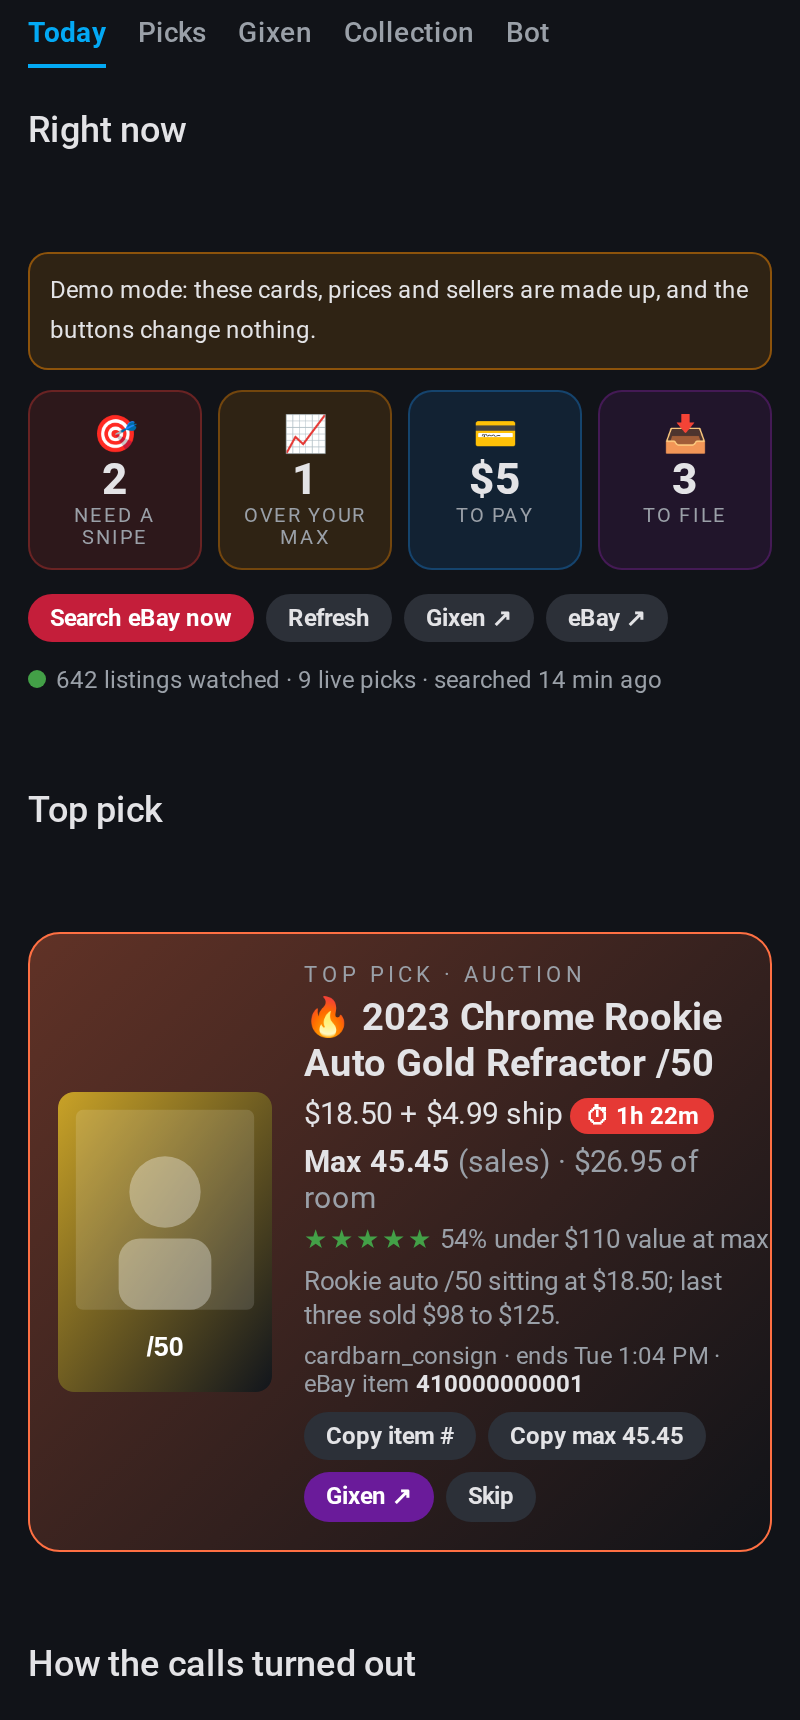
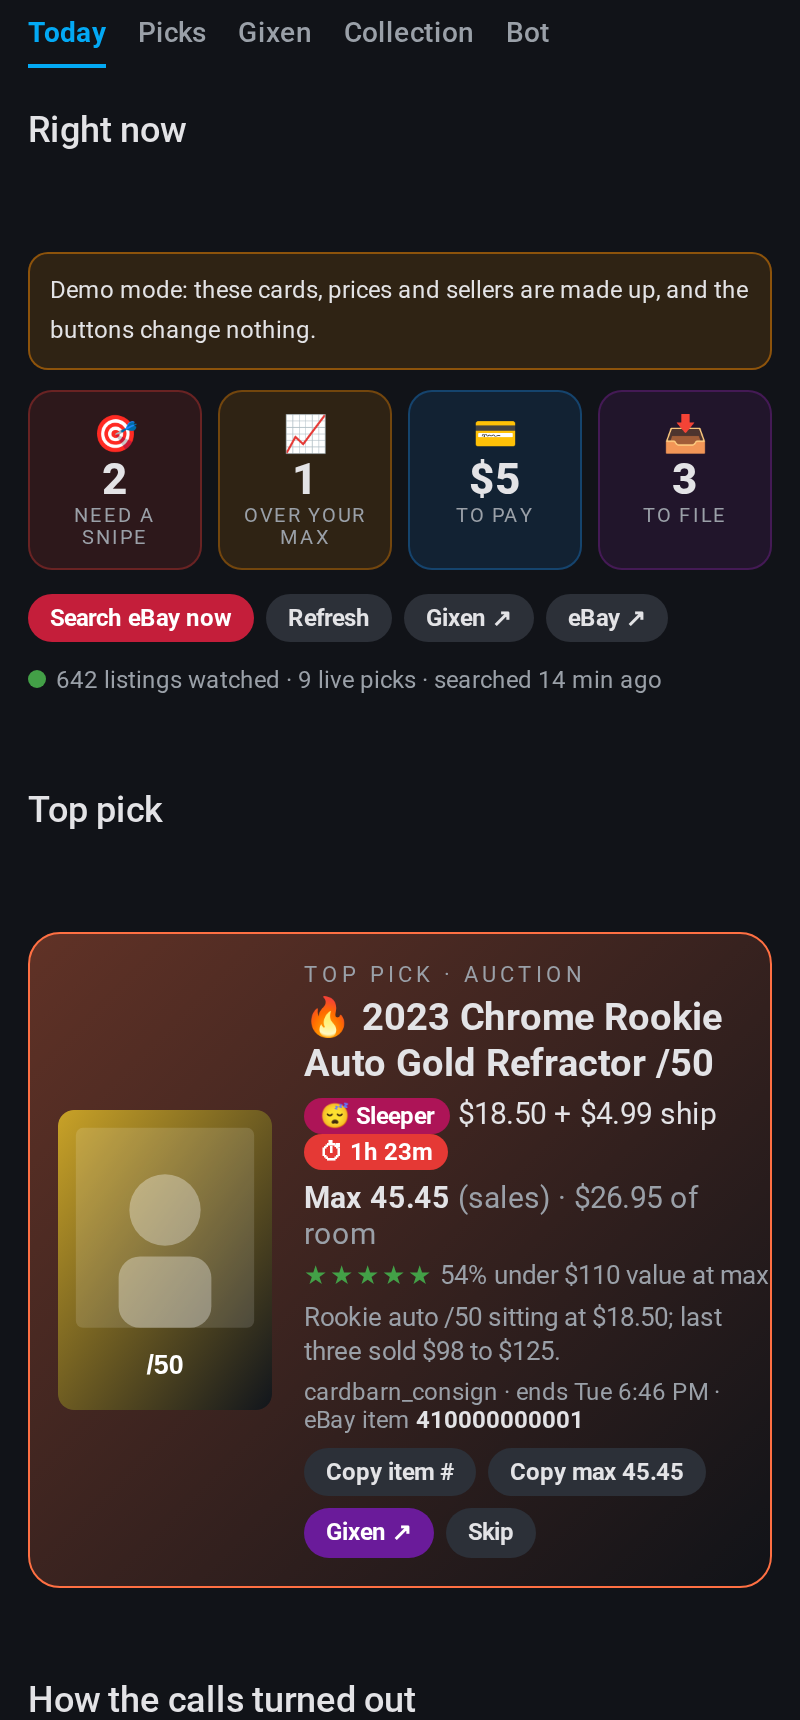
Hunt for cards that slipped through the cracks: price mistakes, hidden listings, sleeper auctions
Scoring names the reason in a new "edge" field, kept only when the pick is at
least 25% under its going rate. It leads the phone alert and goes to the dashboard.

diff --git a/snipehunt/score.py b/snipehunt/score.py
@@ -23,6 +23,10 @@ BATCH = 80
 MAX_BATCHES = 6          # anything beyond this waits for the next hourly run
 TIMEOUT = 1200
 TIERS = {"fire", "green", "yellow"}
+# Why a pick is more than a fair price: a seller's pricing mistake, a listing
+# buyers won't find, or an auction nobody is watching.
+EDGES = {"mispriced", "hidden", "sleeper"}
+EDGE_MIN_PCT = 25         # an edge has to be this far under the going rate
 UNKNOWN_SHIPPING = 5.00   # what the prompt tells Claude to assume for "ship ?"
 # The inventory columns that say which card a row is. Scoring only needs these
 # to tell what is already owned; order dates, sellers and notes are left out
@@ -71,6 +75,16 @@ sold prices you looked up; when you have none, give your honest best estimate.
 - Auctions whose current price already exceeds your max are not steals; leave \
 them out. Buy It Now only counts when the price is at or under \
 your max.
+- Hunt hardest for cards that slipped through the cracks, and say which kind in \
+"edge": "mispriced" = a Buy It Now or best-offer listing priced well under what \
+the card sells for (a seller's mistake or a quick-sale price); "hidden" = one \
+other buyers will not find or will pass over: the player's name misspelled or \
+missing, the wrong year or set, a key feature (autograph, serial number, short \
+print, grade) left out of the title, a poor photo of a good card, or a good \
+card buried in a lot; "sleeper" = an auction ending within about a day with \
+few or no bids and still far under its going rate. Use "" for a card that is \
+only a fair price. Claim an edge only when you are fairly sure of the going \
+rate and paying your max plus shipping would still be at least 25% under it.
 - Tiers: "fire" = brag-worthy (autos, patch autos, /50 or lower, case hits, \
 SSPs, want-list hits); "green" = numbered or clear value; "yellow" = cheap \
 card not yet in the collection.
@@ -80,7 +94,8 @@ Reply with ONLY one JSON object, no prose, no code fence:
 {{"picks": [{{"item_id": "…", "card": "short card name, e.g. 2023 Bowman's \
 Best Refractor PSA 10", "tier": "fire|green|yellow", "max": 12.12, "max_basis": \
 "sales|estimate", "comps": "what recent sales show, or why it is an estimate", \
-"value": 25.00, "why": "one short phone-friendly line"}}], "not_player": ["item_id", …]}}
+"value": 25.00, "edge": "mispriced|hidden|sleeper or empty", "why": "one short \
+phone-friendly line; for an edge, say what the seller got wrong"}}], "not_player": ["item_id", …]}}
 
 === preferences.md ===
 {preferences}
@@ -221,9 +236,14 @@ def _pick_dict(item: Listing, raw: dict) -> dict | None:
     # What you would really pay: the asking price, or the snipe if it wins at its max.
     ship = item.shipping if item.shipping is not None else UNKNOWN_SHIPPING
     deal, deal_pct = rate((max_bid if item.is_auction else item.price) + ship, value)
+    edge = str(raw.get("edge") or "").lower()
+    if edge not in EDGES or (deal_pct or 0) < EDGE_MIN_PCT or (
+            edge == "mispriced" and item.is_auction):
+        edge = None   # the numbers have to back the claim
     return {
         "item_id": item.item_id, "card": str(raw.get("card") or item.title)[:90],
         "tier": tier, "max": max_bid, "value": value, "deal": deal, "deal_pct": deal_pct,
+        "edge": edge,
         "max_basis": "sales" if raw.get("max_basis") == "sales" else "estimate",
         "comps": str(raw.get("comps", ""))[:300], "why": str(raw.get("why", ""))[:140],
         "title": item.title, "price": item.price, "shipping": item.shipping,

diff --git a/tests/test_score.py b/tests/test_score.py
@@ -52,3 +52,25 @@ def test_price_lookups_off_means_no_web_tools_and_says_so(monkeypatch):
     settings.update(db.connect(), {"price_lookups": 0})
     score.score([item])
     assert calls[-1][1] == "" and "no web access" in calls[-1][0]
+
+
+def test_an_edge_is_kept_only_when_the_numbers_back_it():
+    from snipehunt.ebay_search import Listing
+
+    def judged(edge, value, auction=False, price=10.0):
+        item = Listing(item_id="1", title="2023 Topps Chrome rookie auto", price=price,
+                       currency="USD", shipping=1.0,
+                       buying_options=["AUCTION"] if auction else ["FIXED_PRICE"], bid_count=0,
+                       end_time="2026-10-20T00:00:00Z" if auction else None, seller="s",
+                       url="u", image=None)
+        return score._pick_dict(item, {"item_id": "1", "tier": "fire", "max": 12.12,
+                                       "value": value, "edge": edge})["edge"]
+
+    assert judged("mispriced", 40.0) == "mispriced"          # $11 delivered on a $40 card
+    assert judged("mispriced", 13.0) is None                 # about the going rate: no edge
+    assert judged("hidden", 40.0) == "hidden"
+    assert judged("sleeper", 40.0, auction=True, price=1.0) == "sleeper"
+    assert judged("mispriced", 40.0, auction=True, price=1.0) is None   # only a fixed price
+    assert judged("bargain", 40.0) is None and judged("", 40.0) is None
+    assert judged("hidden", None) is None                    # no going rate, no claim
+    assert '"edge"' in score.PROMPT and "slipped through the cracks" in score.PROMPT

diff --git a/snipehunt/notify.py b/snipehunt/notify.py
@@ -110,6 +110,11 @@ def split_for_quiet_hours(picks: list[dict], now: datetime | None = None
             [p for p in live if not is_urgent(p, now)])
 
 
+# Why a pick is more than a fair price (score.EDGES), as the phone shows it.
+EDGE_LABEL = {"mispriced": "💎 PRICE MISTAKE", "hidden": "🕵 SLIPPED THROUGH",
+              "sleeper": "😴 SLEEPER AUCTION"}
+
+
 def deal_line(pick: dict) -> str:
     """★★★★☆ 42% under $25 value. For an auction that is at the max, not today's bid."""
     stars = "★" * pick["deal"] + "☆" * (5 - pick["deal"])
@@ -132,6 +137,8 @@ def format_pick(pick: dict) -> str:
     elif not pick.get("is_auction"):
         line2 += " · Buy It Now" + ("/Offer" if pick.get("best_offer") else "")
     lines = [f"{icon} {pick['card']}", line2]
+    if pick.get("edge") in EDGE_LABEL:
+        lines.insert(0, EDGE_LABEL[pick["edge"]])
     if pick.get("max") is not None:
         lines.append(f"Max: {pick['max']:.2f} ({pick.get('max_basis', 'estimate')})")
     if pick.get("deal"):
@@ -143,7 +150,9 @@ def format_pick(pick: dict) -> str:
 
 
 def _rank(pick: dict) -> tuple:
-    return (TIER_ORDER.get(pick.get("tier"), 9), pick.get("end_time") or "9")
+    """Cards that slipped through the cracks lead a bundle, then tier, then what ends first."""
+    return (pick.get("edge") not in EDGE_LABEL, TIER_ORDER.get(pick.get("tier"), 9),
+            pick.get("end_time") or "9")
 
 
 def format_bundle(picks: list[dict], part: str = ""

diff --git a/snipehunt/demo.py b/snipehunt/demo.py
@@ -13,6 +13,8 @@ from . import config, profile, settings, snapshot
 
 # (tier, card, price, shipping, max, value, hours until it ends or None for Buy It Now,
 #  basis, snipe, why, colour)
+# Which demo picks slipped through the cracks, by position in PICKS.
+EDGES = {0: "sleeper", 2: "hidden", 4: "mispriced"}
 PICKS = [
     ("fire", "2023 Chrome Rookie Auto Gold Refractor /50", 18.50, 4.99, 45.45, 110, 1.4, "sales",
      None, "Rookie auto /50 sitting at $18.50; last three sold $98 to $125.", "#c9a227"),
@@ -105,7 +107,7 @@ def build(now: datetime | None = None) -> dict:
             "seller": SELLERS[n % len(SELLERS)], "why": why,
             "url": f"https://www.ebay.com/itm/{item_id}", "image": _art(colour, "/" + label if "/" in card else label),
             "snipe": snipe, "bid_now": price if snipe else None, "value": float(value),
-            "deal": stars, "deal_pct": max(pct, 0)})
+            "deal": stars, "deal_pct": max(pct, 0), "edge": EDGES.get(n)})
         if snipe:
             snipes.append({"item_id": item_id, "end_time": end, "max_bid": snipe,
                            "current_bid": price, "outbid": False, "title": card,

diff --git a/tests/test_notify.py b/tests/test_notify.py
@@ -103,3 +103,11 @@ def test_claude_cost_adds_up_by_day_and_month():
     assert (today["cost_today"], today["calls_today"], today["cost_month"]) == (0.75, 2, 0.75)
     later = usage.summary(con, datetime(2031, 1, 1, tzinfo=config.TZ))
     assert (later["cost_today"], later["cost_month"]) == (0.0, 0.0)
+
+
+def test_a_card_that_slipped_through_says_so_and_leads_the_alert():
+    plain, steal = pick(item_id="1"), pick(item_id="2", tier="yellow", edge="mispriced")
+    assert notify.format_pick(steal).startswith("💎 PRICE MISTAKE\n")
+    assert "PRICE MISTAKE" not in notify.format_pick(plain)
+    body = notify.format_bundle([plain, steal])[1]
+    assert body.startswith("💎 PRICE MISTAKE")

diff --git a/snipehunt/snapshot.py b/snipehunt/snapshot.py
@@ -43,6 +43,7 @@ def _slim(pick: dict) -> dict:
         "image": pick.get("image"), "snipe": pick.get("snipe"),
         "bid_now": pick.get("bid_now"), "value": pick.get("value"),
         "deal": pick.get("deal"), "deal_pct": pick.get("deal_pct"),
+        "edge": pick.get("edge"),
     }
 
 

diff --git a/README.md b/README.md
@@ -26,6 +26,7 @@ Every hour it searches eBay (including misspelled listings), throws out everythi
 - **Watches limited drops.** A daily check for Topps Now and other print-to-order cards of your player, and a weekly check of new product checklists.
 - **Keeps the inventory current** from your eBay and Gixen emails (optional, read-only).
 - **Shows your Gixen snipes** next to its own picks, so you can see which good auctions have no snipe yet (optional, read-only).
+- **Hunts for what slipped through the cracks**: price mistakes on Buy It Now listings, cards hidden by a misspelled or thin title, and auctions about to end with nobody watching. Each one is labelled on the dashboard and leads the phone alert.
 - **Writes a weekly report**: wins and losses, what to pay, what to file, best upcoming snipes, and what the week's auctions sold for.
 - **Shows what it costs.** Every Claude call's cost is added up per day and month and shown on the dashboard.
 
